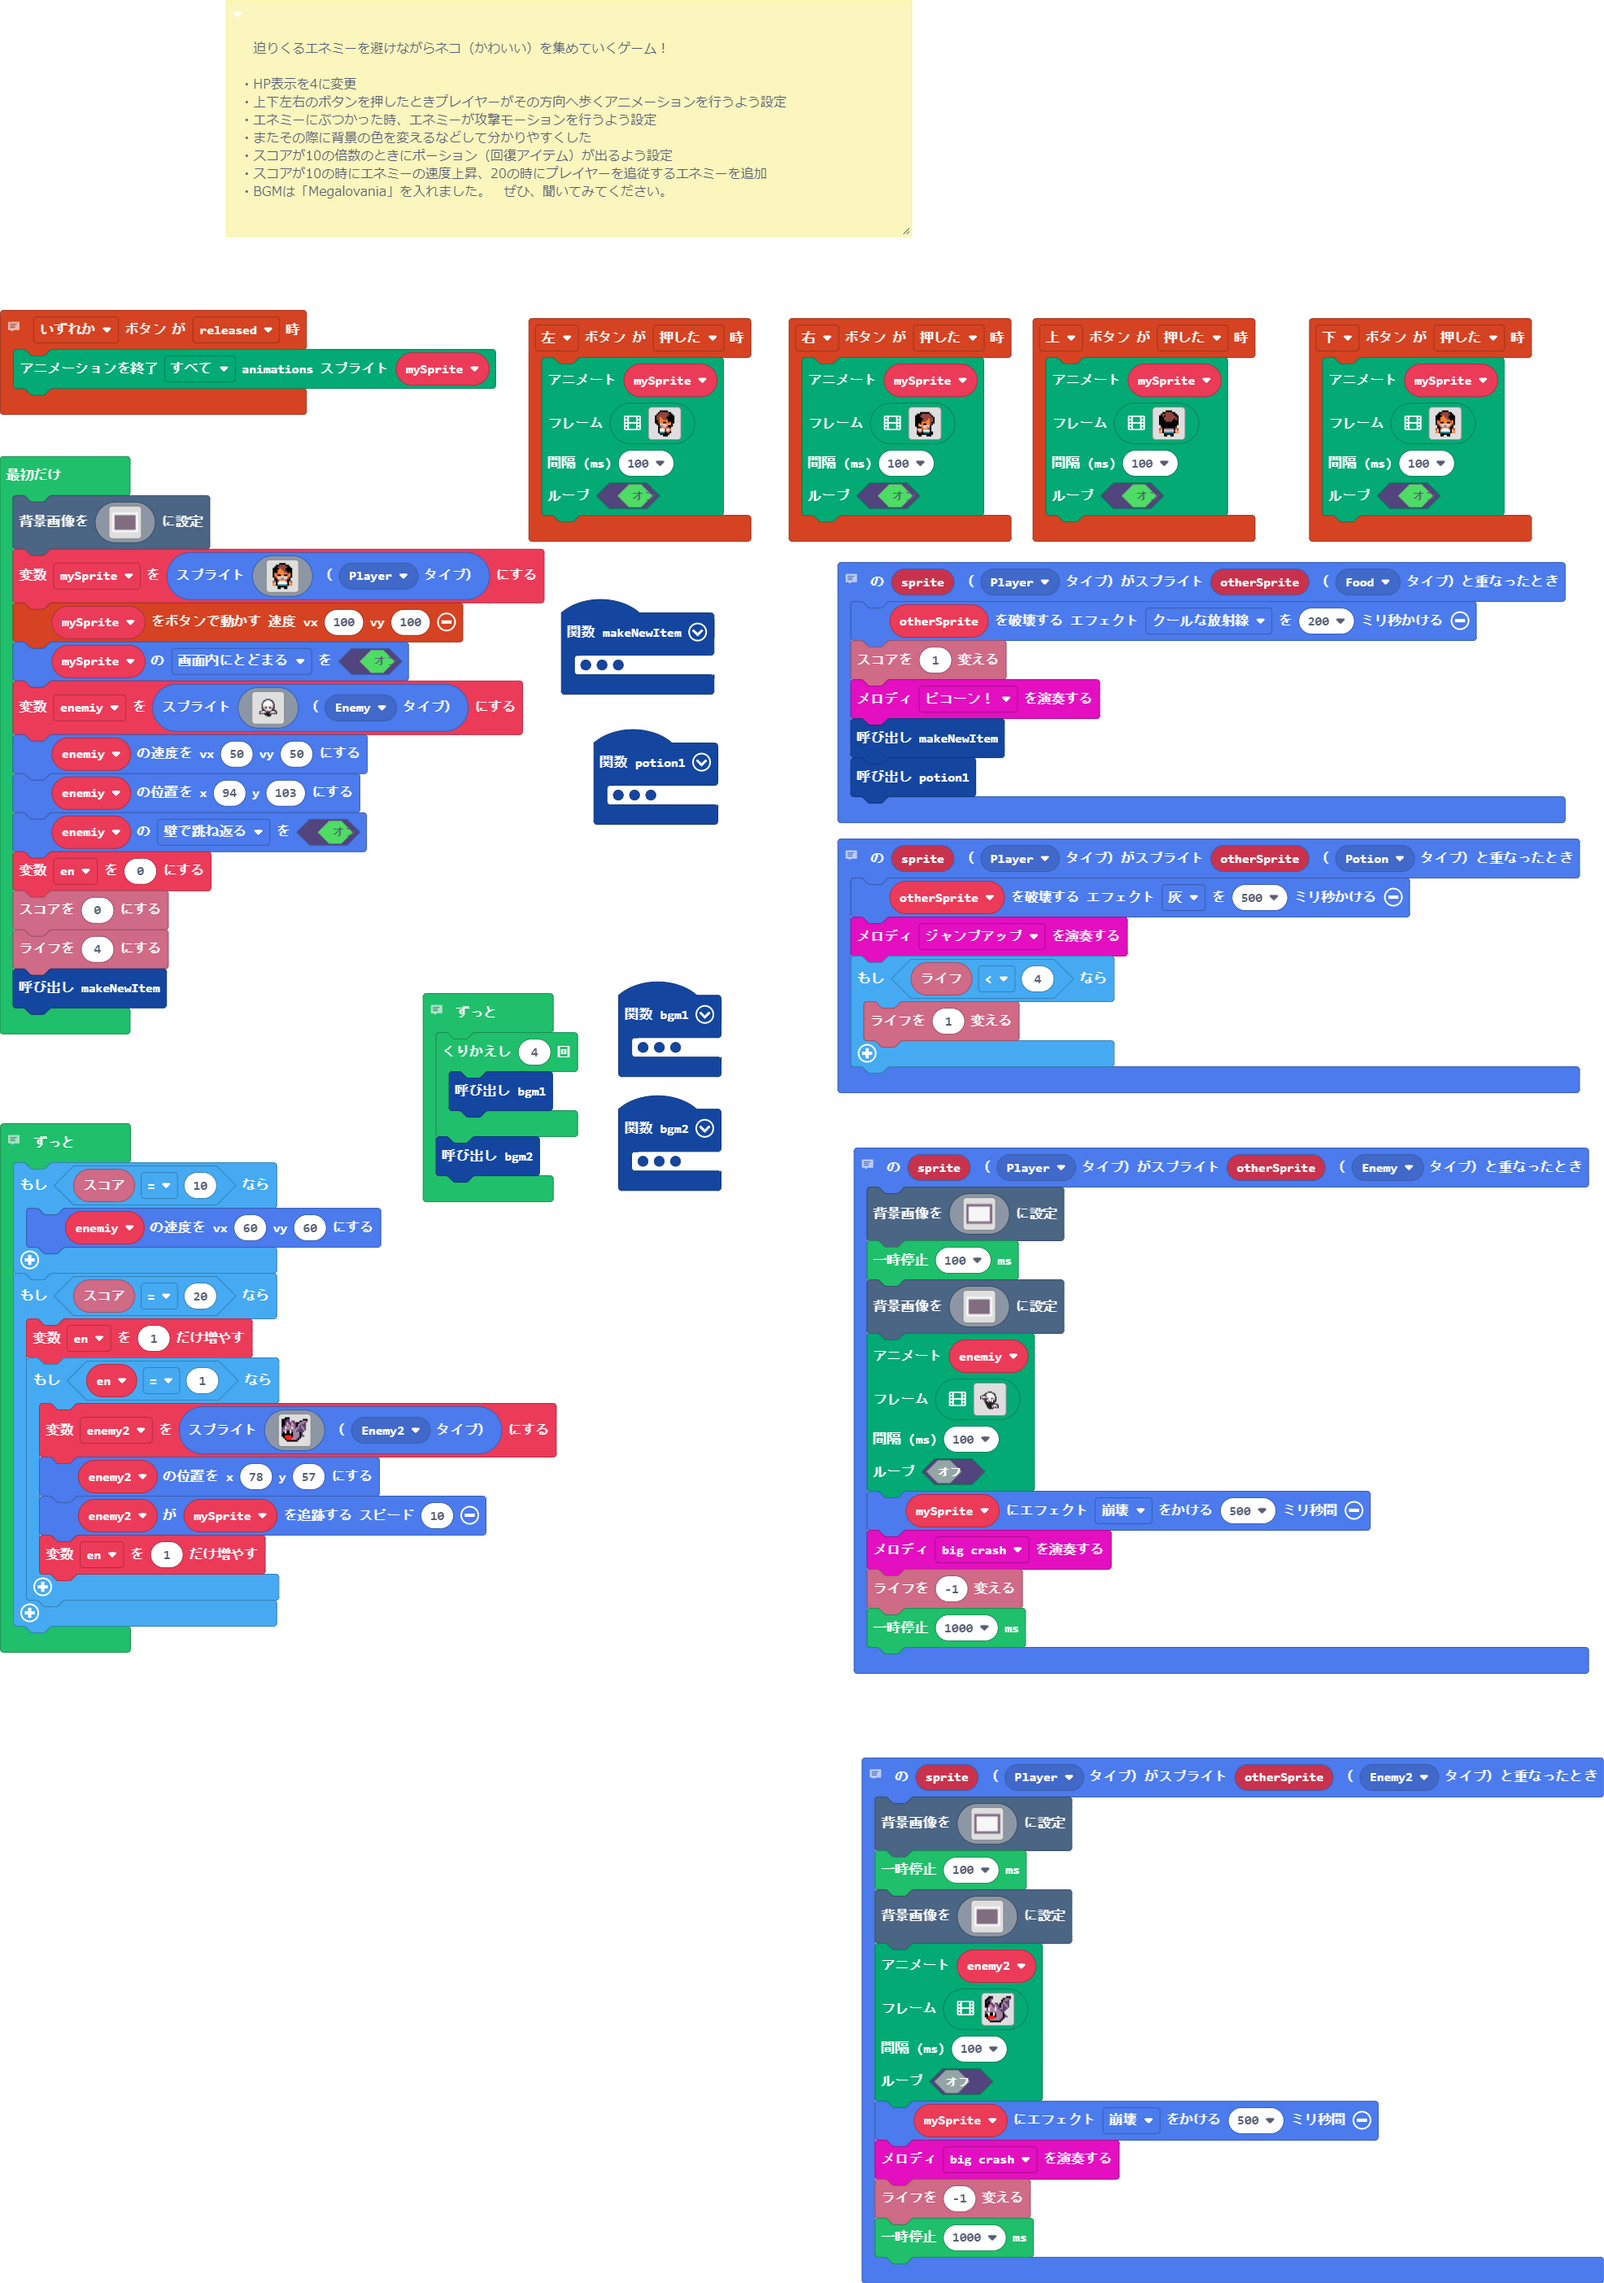
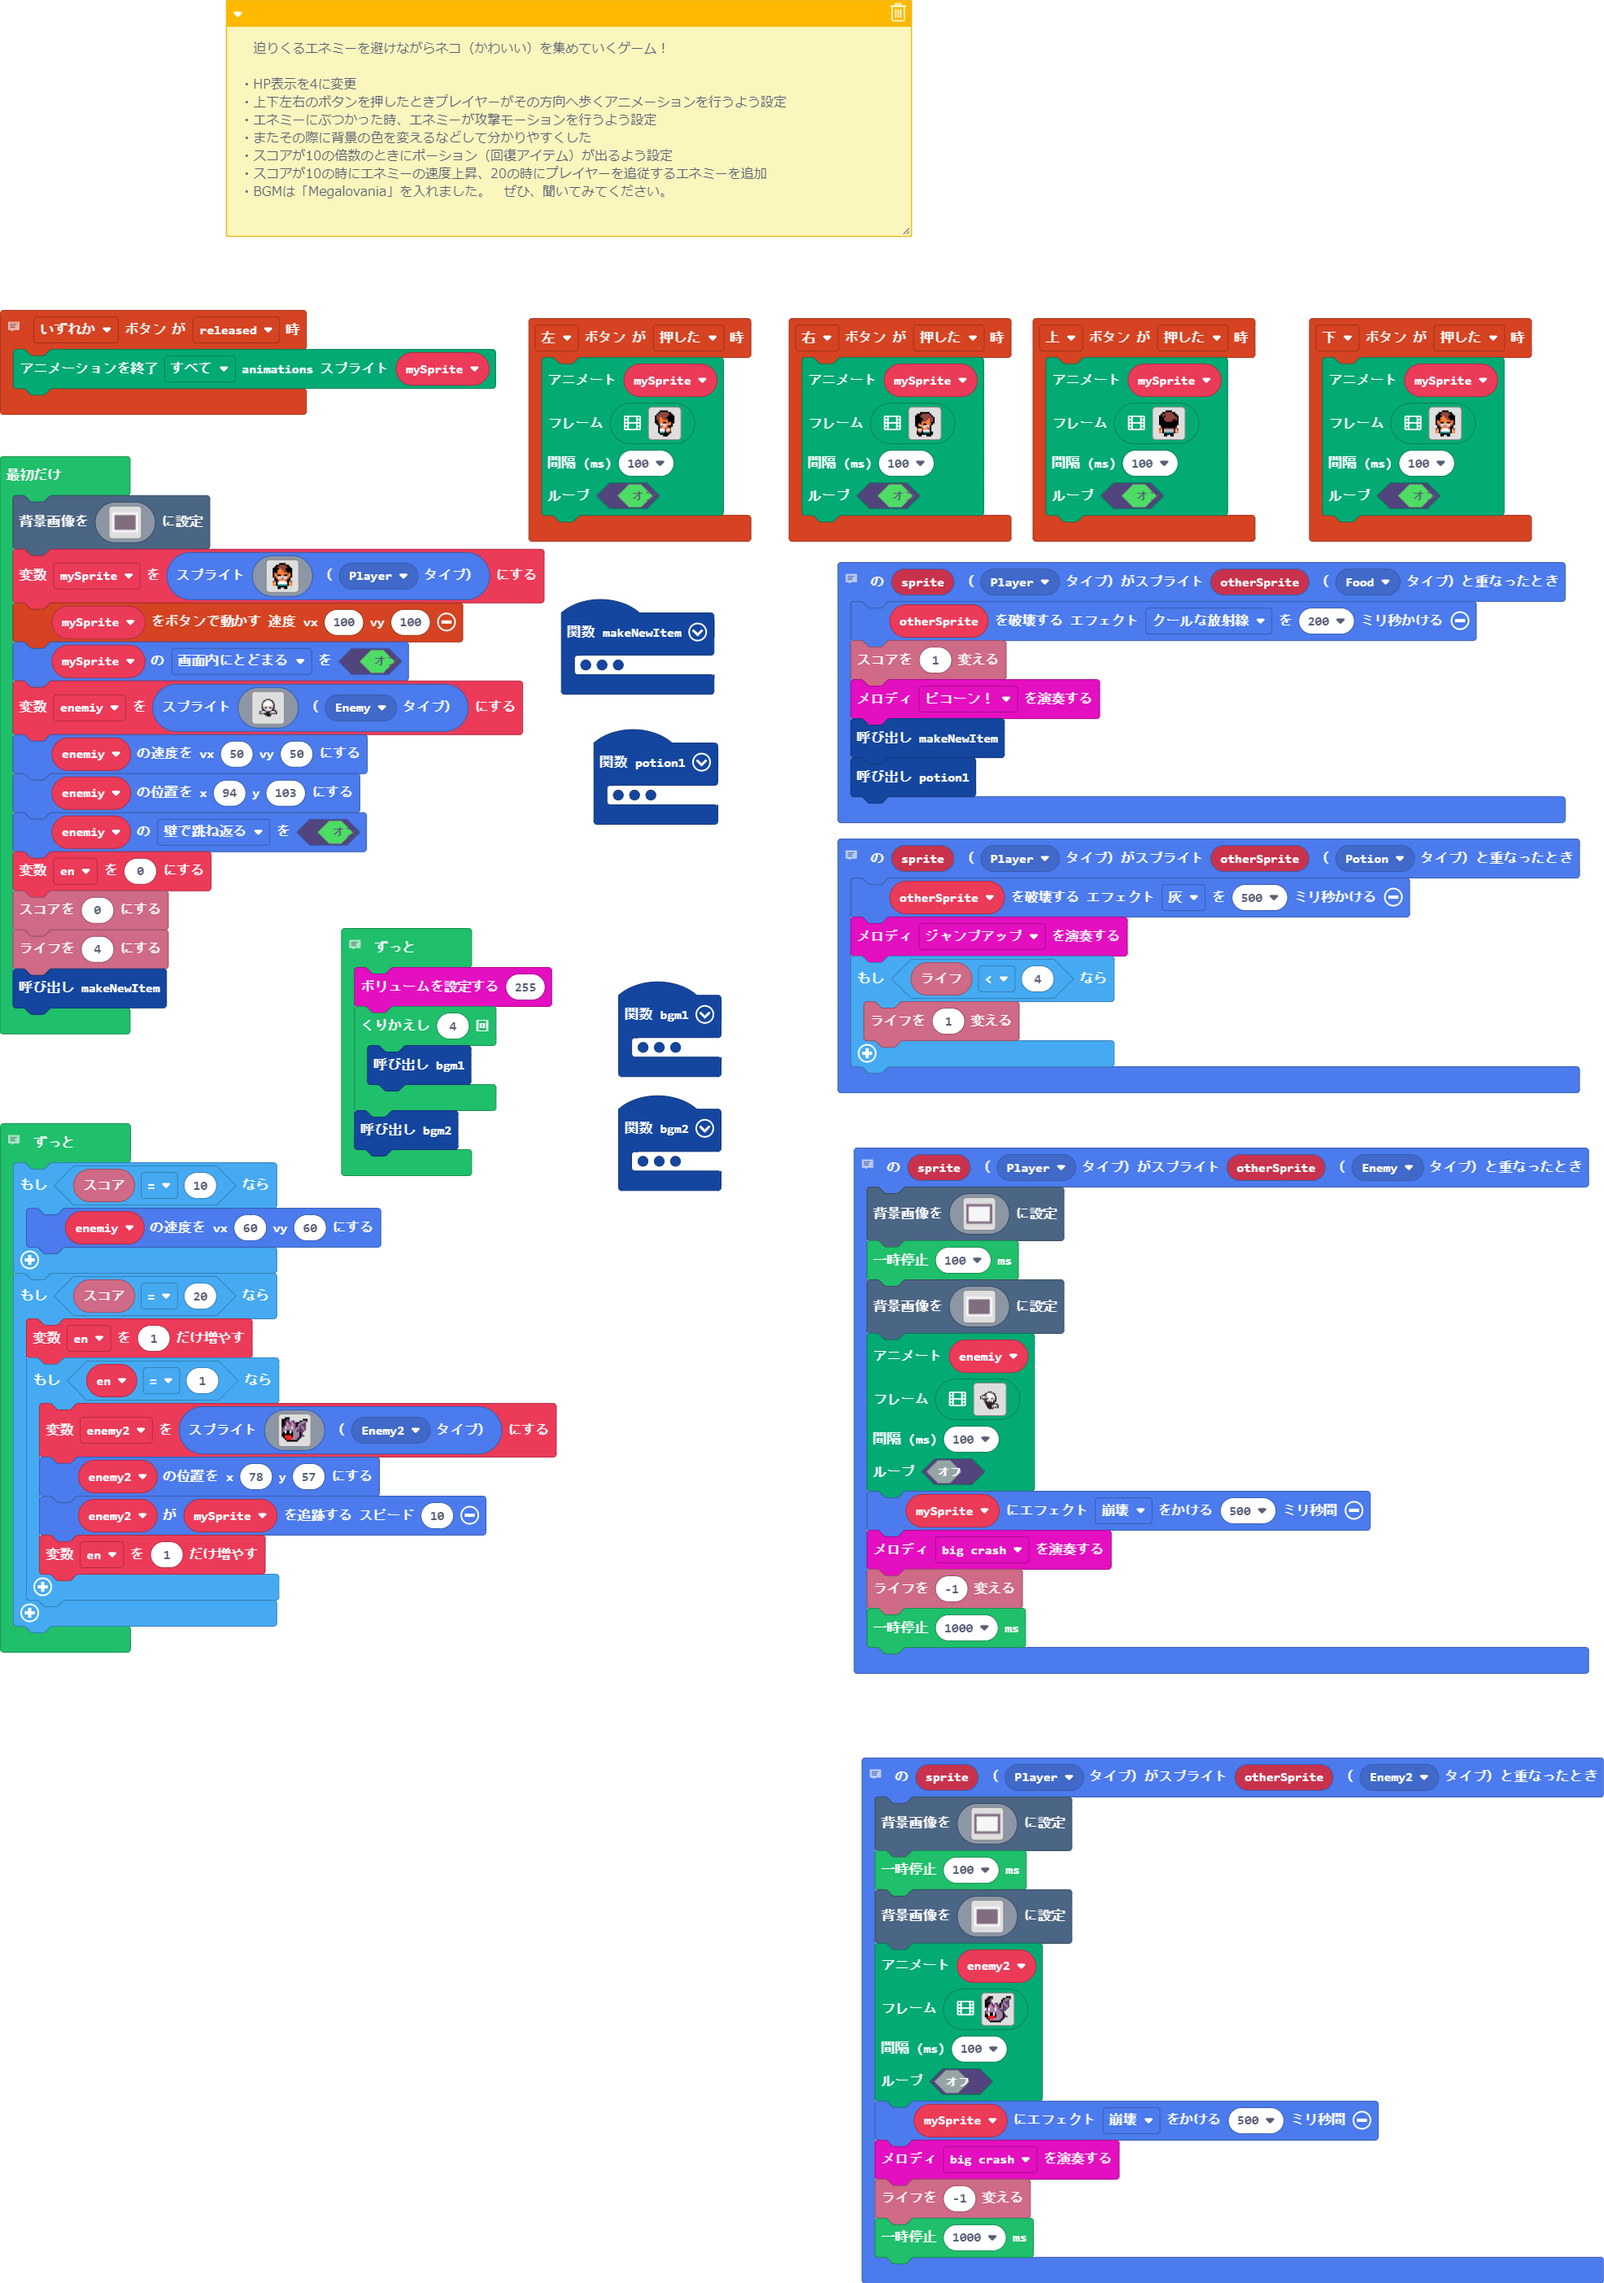
更新 pxt.json, main.blocks, main.ts

Changed region(s): [[0.1856, 0.4029, 0.3712, 0.5269], [0.1237, 0.0, 0.5877, 0.031]]

diff --git a/main.ts b/main.ts
@@ -1337,6 +1337,7 @@ info.setLife(4)
 makeNewItem()
 // ・BGMは「Megalovania」を入れました。熱く最高の曲です。
 forever(function () {
+    music.setVolume(255)
     for (let index = 0; index < 4; index++) {
         bgm1()
     }
